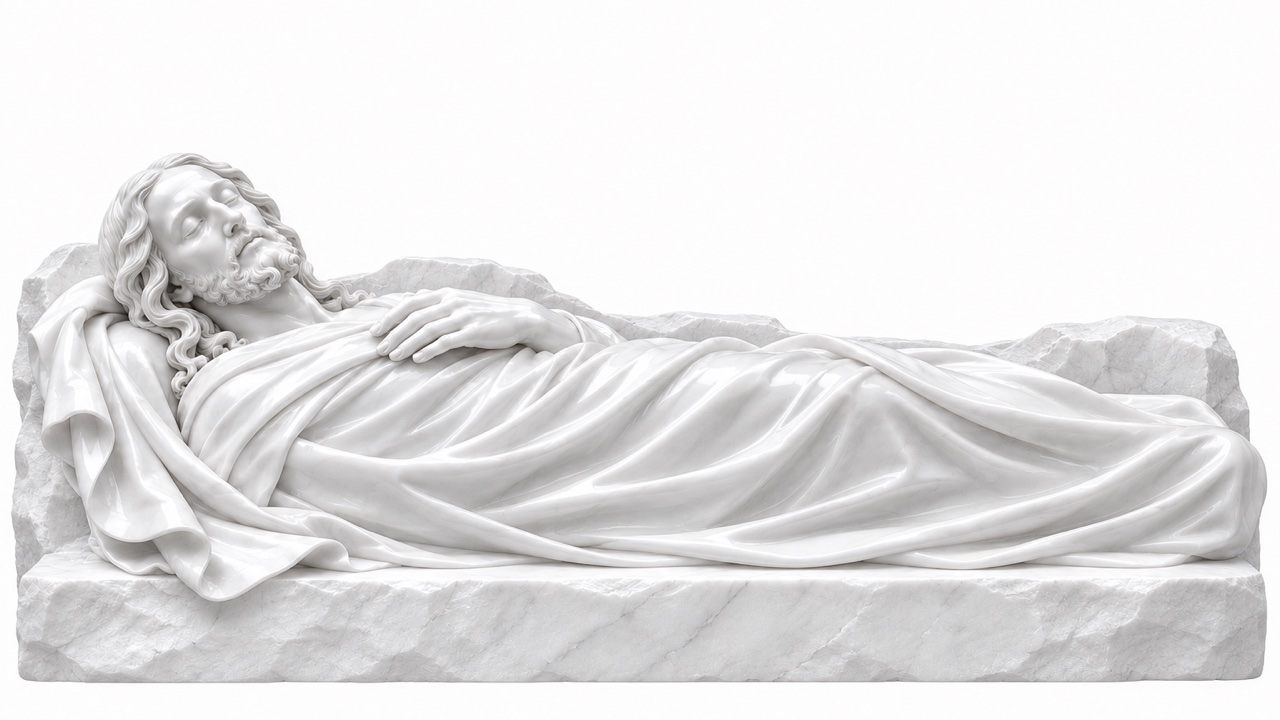
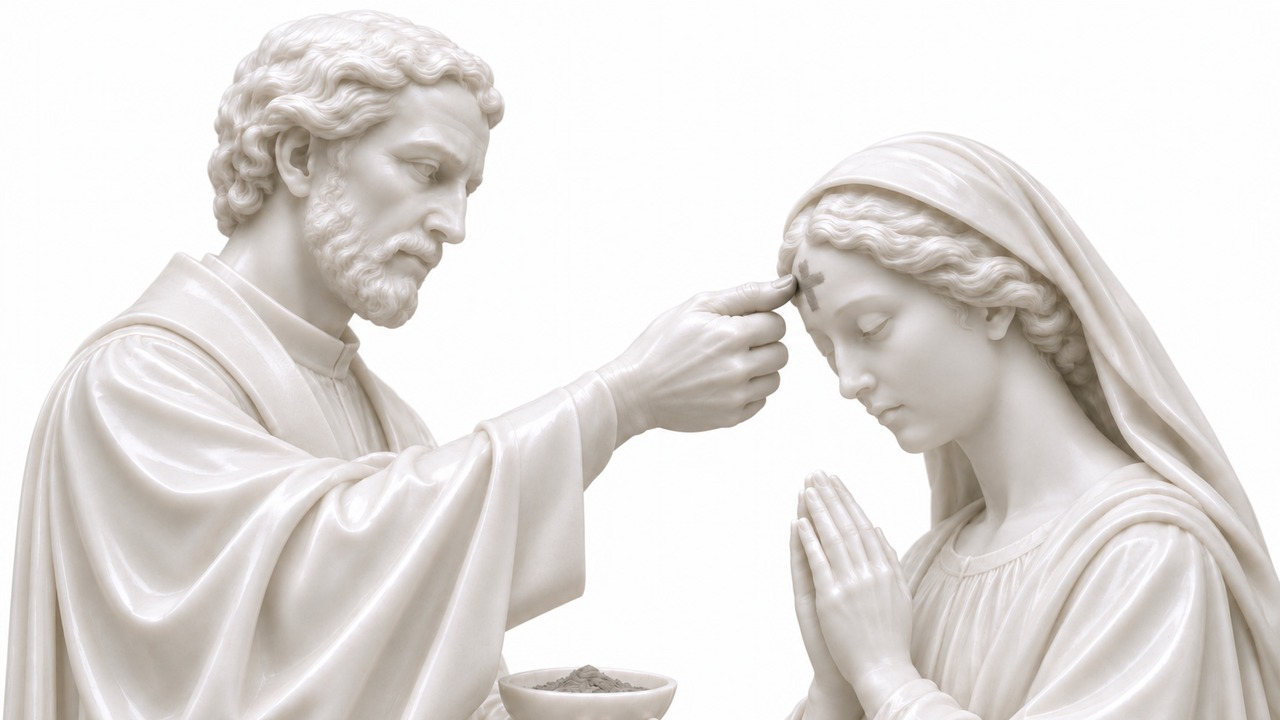
Replace Ash Wednesday feast heroes and show feast cards from the top of the file.
Mystery sheet art uses the same aspect as the home mystery card.

diff --git a/RosaryGuideTests/ThemeTokenTests.swift b/RosaryGuideTests/ThemeTokenTests.swift
@@ -450,15 +450,9 @@ final class CompletionScreenTests: XCTestCase {
 }
 
 final class FeastHeroFramingTests: XCTestCase {
-    func testTopAirIsAboutATenthOfTheFrame() {
-        let fraction = ArtCatalog.feastCoverTopInsetFraction
-        XCTAssertGreaterThanOrEqual(fraction, 0.08)
-        XCTAssertLessThanOrEqual(fraction, 0.12)
-    }
-
-    /// A figure that already touches the top of the file fills the card from that
-    /// edge. There is no painted band above the image.
-    func testFlushFigureFillsTheCardWithoutAPaintedBand() {
+    /// A narrow figure must not zoom the file. The card shows the whole canvas
+    /// from the top, and crops only the bottom.
+    func testNarrowSubjectUsesFullFileCoverFromTheTop() {
         let image = CGSize(width: 1280, height: 720)
         let frame = CGSize(width: 358, height: 176)
         let subject = CGRect(x: 480, y: 0, width: 300, height: 720)
@@ -468,18 +462,19 @@ final class FeastHeroFramingTests: XCTestCase {
             subject: subject,
             focusX: 630
         )
-        XCTAssertEqual(cover.scale, frame.width / subject.width, accuracy: 0.0001)
-        let visibleX = -cover.offset.width / cover.scale
-        let visibleY = -cover.offset.height / cover.scale
-        XCTAssertEqual(visibleX, subject.minX, accuracy: 0.5)
-        XCTAssertEqual(visibleY, 0, accuracy: 0.5)
-        XCTAssertEqual(frame.width / cover.scale, subject.width, accuracy: 0.5)
-        assertWindowFillsFrame(visibleX: visibleX, visibleY: visibleY, cover: cover, image: image, frame: frame)
-        let visibleBottom = visibleY + frame.height / cover.scale
+        assertFullFileCover(cover: cover, image: image, frame: frame)
+        XCTAssertLessThan(cover.scale, frame.width / subject.width)
+        let visible = visibleOrigin(cover, frame: frame)
+        XCTAssertEqual(visible.y, 0, accuracy: 0.0001)
+        XCTAssertEqual(visible.x, 0, accuracy: 0.5)
+        assertWindowFillsFrame(visibleX: visible.x, visibleY: visible.y, cover: cover, image: image, frame: frame)
+        let visibleBottom = visible.y + frame.height / cover.scale
         XCTAssertGreaterThan(visibleBottom, subject.minY)
-        XCTAssertLessThan(visibleBottom, subject.maxY)
+        XCTAssertLessThan(visibleBottom, image.height)
     }
 
+    /// A tall frame overflows horizontally and keeps the face inside the window.
+    /// The top of the file stays visible even when the figure starts lower.
     func testTallFrameKeepsAFaceOnTheLeftInsideTheWindow() {
         let focus: CGFloat = 314
         let image = CGSize(width: 1280, height: 720)
@@ -491,16 +486,14 @@ final class FeastHeroFramingTests: XCTestCase {
             subject: subject,
             focusX: focus
         )
-        let visibleX = -cover.offset.width / cover.scale
-        let visibleY = -cover.offset.height / cover.scale
+        assertFullFileCover(cover: cover, image: image, frame: frame)
+        XCTAssertEqual(cover.scale, frame.height / image.height, accuracy: 0.0001)
+        let visible = visibleOrigin(cover, frame: frame)
         let visibleWidth = frame.width / cover.scale
-        assertSourceTopAir(visibleY: visibleY, subjectMinY: subject.minY, scale: cover.scale, frameHeight: frame.height)
-        XCTAssertLessThan(visibleY, subject.minY)
-        XCTAssertGreaterThanOrEqual(focus, visibleX - 0.5)
-        XCTAssertLessThanOrEqual(focus, visibleX + visibleWidth + 0.5)
-        assertWindowFillsFrame(visibleX: visibleX, visibleY: visibleY, cover: cover, image: image, frame: frame)
-        XCTAssertLessThan(visibleWidth, 1200)
-        XCTAssertGreaterThanOrEqual(subject.width * cover.scale, frame.width - 0.5)
+        XCTAssertEqual(visible.y, 0, accuracy: 0.0001)
+        XCTAssertGreaterThanOrEqual(focus, visible.x - 0.5)
+        XCTAssertLessThanOrEqual(focus, visible.x + visibleWidth + 0.5)
+        assertWindowFillsFrame(visibleX: visible.x, visibleY: visible.y, cover: cover, image: image, frame: frame)
     }
 
     func testWideCardCropsTheBottomOfAFullBleedHero() {
@@ -513,20 +506,20 @@ final class FeastHeroFramingTests: XCTestCase {
             subject: subject,
             focusX: 640
         )
+        assertFullFileCover(cover: cover, image: image, frame: frame)
         XCTAssertEqual(cover.scale, frame.width / image.width, accuracy: 0.0001)
-        let visibleX = -cover.offset.width / cover.scale
-        let visibleY = -cover.offset.height / cover.scale
+        let visible = visibleOrigin(cover, frame: frame)
         let visibleHeight = frame.height / cover.scale
-        XCTAssertEqual(visibleX, 0, accuracy: 0.5)
-        XCTAssertEqual(visibleY, 0, accuracy: 0.5)
+        XCTAssertEqual(visible.x, 0, accuracy: 0.5)
+        XCTAssertEqual(visible.y, 0, accuracy: 0.0001)
         XCTAssertLessThan(visibleHeight, 700)
-        XCTAssertEqual(frame.width / cover.scale, subject.width, accuracy: 0.5)
-        assertWindowFillsFrame(visibleX: visibleX, visibleY: visibleY, cover: cover, image: image, frame: frame)
+        XCTAssertGreaterThan(visibleHeight, 1)
+        assertWindowFillsFrame(visibleX: visible.x, visibleY: visible.y, cover: cover, image: image, frame: frame)
     }
 
-    /// Field above the statue in the file becomes the card's top air, and the
-    /// crop never steps outside the file.
-    func testLetterboxAboveTheFigureSuppliesTheAir() {
+    /// Field above a lower figure stays in view because the window starts at y = 0.
+    /// A subject narrower than the file does not increase the scale.
+    func testLetterboxStaysInFrameWithoutSubjectZoom() {
         let image = CGSize(width: 1280, height: 720)
         let frame = CGSize(width: 358, height: 176)
         let subject = CGRect(x: 240, y: 100, width: 800, height: 620)
@@ -536,24 +529,64 @@ final class FeastHeroFramingTests: XCTestCase {
             subject: subject,
             focusX: 640
         )
-        let visibleX = -cover.offset.width / cover.scale
-        let visibleY = -cover.offset.height / cover.scale
-        assertSourceTopAir(visibleY: visibleY, subjectMinY: subject.minY, scale: cover.scale, frameHeight: frame.height)
-        XCTAssertLessThan(visibleY, subject.minY)
-        XCTAssertGreaterThanOrEqual(subject.width * cover.scale, frame.width - 0.5)
-        assertWindowFillsFrame(visibleX: visibleX, visibleY: visibleY, cover: cover, image: image, frame: frame)
-        let visibleBottom = visibleY + frame.height / cover.scale
-        XCTAssertLessThan(visibleBottom, subject.maxY)
+        assertFullFileCover(cover: cover, image: image, frame: frame)
+        XCTAssertLessThan(cover.scale, frame.width / subject.width - 0.05)
+        let visible = visibleOrigin(cover, frame: frame)
+        XCTAssertEqual(visible.y, 0, accuracy: 0.0001)
+        XCTAssertEqual(visible.x, 0, accuracy: 0.5)
+        let visibleBottom = visible.y + frame.height / cover.scale
+        XCTAssertGreaterThan(visibleBottom, subject.minY)
+        assertWindowFillsFrame(visibleX: visible.x, visibleY: visible.y, cover: cover, image: image, frame: frame)
     }
 
-    /// The figure's top sits about a tenth of the frame down, using pixels above it in the file.
-    private func assertSourceTopAir(visibleY: CGFloat, subjectMinY: CGFloat, scale: CGFloat, frameHeight: CGFloat, file: StaticString = #filePath, line: UInt = #line) {
-        XCTAssertGreaterThanOrEqual(visibleY, -0.5, file: file, line: line)
-        let subjectTop = (subjectMinY - visibleY) * scale
-        let inset = frameHeight * ArtCatalog.feastCoverTopInsetFraction
-        XCTAssertEqual(subjectTop, inset, accuracy: 0.75, file: file, line: line)
-        XCTAssertGreaterThanOrEqual(subjectTop, frameHeight * 0.08 - 0.5, file: file, line: line)
-        XCTAssertLessThanOrEqual(subjectTop, frameHeight * 0.12 + 0.5, file: file, line: line)
+    /// When the scaled file is wider than the frame, the window centers on the focus
+    /// and still lies entirely inside the image. The top edge stays at y = 0.
+    func testHorizontalOverflowCentersOnFocus() {
+        let image = CGSize(width: 1280, height: 720)
+        let frame = CGSize(width: 200, height: 400)
+        let subject = CGRect(x: 400, y: 80, width: 480, height: 600)
+        let focus: CGFloat = 640
+        let cover = ArtCatalog.feastCover(
+            imageSize: image,
+            frame: frame,
+            subject: subject,
+            focusX: focus
+        )
+        assertFullFileCover(cover: cover, image: image, frame: frame)
+        XCTAssertEqual(cover.scale, frame.height / image.height, accuracy: 0.0001)
+        let visible = visibleOrigin(cover, frame: frame)
+        let visibleWidth = frame.width / cover.scale
+        XCTAssertEqual(visible.y, 0, accuracy: 0.0001)
+        XCTAssertEqual(visible.x + visibleWidth / 2, focus, accuracy: 0.5)
+        XCTAssertGreaterThan(visible.x, 0)
+        assertWindowFillsFrame(visibleX: visible.x, visibleY: visible.y, cover: cover, image: image, frame: frame)
+
+        let leftSubject = CGRect(x: 0, y: 40, width: 400, height: 640)
+        let leftFocus: CGFloat = 80
+        let left = ArtCatalog.feastCover(imageSize: image, frame: frame, subject: leftSubject, focusX: leftFocus)
+        let leftVisible = visibleOrigin(left, frame: frame)
+        XCTAssertEqual(leftVisible.y, 0, accuracy: 0.0001)
+        XCTAssertEqual(leftVisible.x, 0, accuracy: 0.5)
+        XCTAssertLessThanOrEqual(leftFocus, leftVisible.x + frame.width / left.scale)
+
+        let rightFocus: CGFloat = 1200
+        let right = ArtCatalog.feastCover(imageSize: image, frame: frame, subject: CGRect(x: 900, y: 40, width: 360, height: 640), focusX: rightFocus)
+        let rightVisible = visibleOrigin(right, frame: frame)
+        let rightWidth = frame.width / right.scale
+        XCTAssertEqual(rightVisible.y, 0, accuracy: 0.0001)
+        XCTAssertGreaterThanOrEqual(rightFocus, rightVisible.x - 0.5)
+        XCTAssertLessThanOrEqual(rightFocus, rightVisible.x + rightWidth + 0.5)
+        assertWindowFillsFrame(visibleX: rightVisible.x, visibleY: rightVisible.y, cover: right, image: image, frame: frame)
+    }
+
+    private func visibleOrigin(_ cover: ArtCatalog.FeastCover, frame: CGSize) -> CGPoint {
+        CGPoint(x: -cover.offset.width / cover.scale, y: -cover.offset.height / cover.scale)
+    }
+
+    private func assertFullFileCover(cover: ArtCatalog.FeastCover, image: CGSize, frame: CGSize, file: StaticString = #filePath, line: UInt = #line) {
+        let scale = max(frame.width / image.width, frame.height / image.height)
+        XCTAssertEqual(cover.scale, scale, accuracy: 0.0001, file: file, line: line)
+        XCTAssertEqual(cover.offset.height, 0, accuracy: 0.0001, file: file, line: line)
     }
 
     /// Every edge of the card is a pixel from the file.

diff --git a/RosaryGuide/Theme/ArtCatalog.swift b/RosaryGuide/Theme/ArtCatalog.swift
@@ -184,62 +184,32 @@ enum ArtCatalog {
         return subject
     }
 
-    /// Share of the feast frame to keep as the file's own field above the figure,
-    /// when that field exists in the canvas. About a tenth of the height.
-    static let feastCoverTopInsetFraction: CGFloat = 0.10
-
-    /// Cover `frame` with one scale of the feast file. The window stays inside the
-    /// image, so the card is full-bleed: no side bars and no painted strip.
+    /// Cover `frame` with the whole feast file at one scale:
+    /// `max(frame.width / imageSize.width, frame.height / imageSize.height)`.
     ///
-    /// When the canvas has field above the figure, the figure begins up to
-    /// `feastCoverTopInsetFraction` of the frame below the top, and that air is
-    /// those source pixels. A short card crops the lower body before the face.
-    /// If the figure already touches the top of the file, the window starts at
-    /// the top of the file instead of inventing a gap. `focusX` stays inside the
-    /// window when the frame is narrower than the figure.
+    /// The window always starts at the top of the file, so any crop is from the
+    /// bottom. Top air is whatever field is already in those pixels; the scale
+    /// never tightens to the subject. When the scaled width is wider than the
+    /// frame, the window centers on `focusX` (held inside `subject`) and stays
+    /// inside the image. The card is full-bleed: no side bars and no painted strip.
     static func feastCover(imageSize: CGSize, frame: CGSize, subject: CGRect, focusX: CGFloat) -> FeastCover {
         guard imageSize.width > 1, imageSize.height > 1, frame.width > 1, frame.height > 1 else {
             return FeastCover(scale: 1, offset: .zero)
         }
+        let scale = max(frame.width / imageSize.width, frame.height / imageSize.height)
+        let scaledW = imageSize.width * scale
+        let maxVisX = max(0, scaledW - frame.width)
+
         let canvas = CGRect(origin: .zero, size: imageSize)
         let box = subject.intersection(canvas)
-        let region = (box.width > 1 && box.height > 1) ? box : canvas
-        let inset = frame.height * feastCoverTopInsetFraction
-
-        // The canvas must cover the frame, and the figure's width must cover it,
-        // so a portrait statue is not a small island inside the card.
-        var scale = max(
-            frame.width / imageSize.width,
-            frame.height / imageSize.height,
-            frame.width / region.width
-        )
-        let belowFigureTop = imageSize.height - region.minY
-        if belowFigureTop > 1 {
-            // Room to show the requested air and still reach the bottom of the file.
-            scale = max(scale, max(frame.height - inset, 1) / belowFigureTop)
+        let anchor: CGFloat
+        if box.width > 1, box.height > 1 {
+            anchor = min(max(focusX, box.minX), box.maxX)
+        } else {
+            anchor = min(max(focusX, 0), imageSize.width)
         }
-
-        let scaledW = imageSize.width * scale
-        let scaledH = imageSize.height * scale
-        let maxVisX = max(0, scaledW - frame.width)
-        let maxVisY = max(0, scaledH - frame.height)
-
-        let anchor = min(max(focusX, region.minX), region.maxX)
-        var visX = anchor * scale - frame.width / 2
-        let subjectMinX = region.minX * scale
-        let subjectMaxX = max(subjectMinX, region.maxX * scale - frame.width)
-        visX = min(max(visX, subjectMinX), subjectMaxX)
-        visX = min(max(visX, 0), maxVisX)
-
-        // Only count field that is actually in the file above the figure.
-        let availableAir = max(0, region.minY * scale)
-        let air = min(inset, availableAir)
-        var visY = region.minY * scale - air
-        if visY > maxVisY { visY = maxVisY }
-        let subjectTop = region.minY * scale
-        if visY > subjectTop { visY = subjectTop }
-        if visY < 0 { visY = 0 }
-        return FeastCover(scale: scale, offset: CGSize(width: -visX, height: -visY))
+        let visX = min(max(anchor * scale - frame.width / 2, 0), maxVisX)
+        return FeastCover(scale: scale, offset: CGSize(width: -visX, height: 0))
     }
 }
 
@@ -407,8 +377,8 @@ struct FocusedRasterImage: View {
     var focus: UnitPoint = UnitPoint(x: 0.5, y: 0.32)
     /// When set, the top of the visible crop is this far down the image (0...1).
     var cropTop: CGFloat? = nil
-    /// Feast heroes. Scales the figure to fill the frame. Air above the statue is
-    /// only field that already exists in the file; the image itself covers the card.
+    /// Feast heroes. Covers the card with the whole file, top-aligned.
+    /// Any crop is from the bottom; horizontal overflow follows the subject.
     var coversSubject: Bool = false
 
     var body: some View {

diff --git a/RosaryGuide/Views/Home/HomeView.swift b/RosaryGuide/Views/Home/HomeView.swift
@@ -1184,7 +1184,7 @@ struct HomeView: View {
         ScrollView(.vertical, showsIndicators: false) {
             VStack(alignment: .leading, spacing: AppTheme.Space.xl) {
                 MysteryArtworkView(set: mystery.set, mysteryNumber: mystery.number, slug: mystery.artSlug, kind: .plate, bottomFade: false, cardFraming: true)
-                    .aspectRatio(Self.mysteryDetailArtAspect, contentMode: .fit)
+                    .aspectRatio(AppTheme.Component.mysteryCardArtAspect, contentMode: .fit)
                     .frame(maxWidth: .infinity)
                     .clipShape(RoundedRectangle(cornerRadius: AppTheme.containerRadius, style: .continuous))
 
@@ -1220,13 +1220,11 @@ struct HomeView: View {
         }
     }
 
-    /// Wide crop of the card art for the opened mystery, so the text starts above the fold.
-    static let mysteryDetailArtAspect: CGFloat = 2
-
     private func mysteryDetailSheetHeight(for mystery: Mystery) -> CGFloat {
         // One detent for the whole set, so swiping never resizes the sheet under the finger.
+        // Art uses the same aspect as the home mystery card.
         let pages = MysteryCatalog.mysteries(for: mystery.set)
-        let artHeight = (viewport.width - AppTheme.Space.lg - AppTheme.gutter * 2) / Self.mysteryDetailArtAspect
+        let artHeight = (viewport.width - AppTheme.Space.lg - AppTheme.gutter * 2) / AppTheme.Component.mysteryCardArtAspect
         let tallest = pages.map { page -> CGFloat in
             let title = page.title.primary(for: settings.language)
             let excerpt = MysteryScripture.display(for: page, translation: settings.rosaryConfig.translation, language: settings.language)
